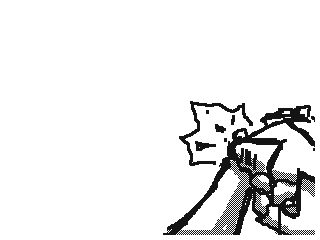
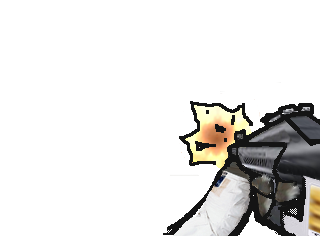
Fix stale gfx atlas rebuilds, swap in colored gun sprites, retune viewmodel offsets
- Makefile: the gfx/*.t3s -> .t3x rule only depended on the .t3s spec
  file itself, not the individual PNGs it lists, so swapping sprite art
  without touching the .t3s left the stale atlas in place no matter how
  many times you rebuilt. tex3ds already emits a real dependency file
  (-d flag); now it's actually -include'd so make picks up PNG changes
  correctly going forward.
- Swapped in colored versions of the gun sprites (idle/idle2/fire1/fire2/
  reset/empty) -- same dimensions as before, so no position code changes
  needed.
- Bumped GUN_LOWER_AMOUNT 40->90px (empty/reloading pose sits noticeably
  lower) and added a 10px downward offset to the viewmodel's base
  position, on top of the existing rightward offset.

Changed region(s): [[0.5312, 0.4083, 1.0, 0.9917]]

diff --git a/source/main.c b/source/main.c
@@ -76,7 +76,7 @@
 // out of ammo/reloading vs. its normal raised position, and how quickly it
 // eases between the two -- higher LOWER_SPEED snaps faster, lower is a
 // slower settle.
-#define GUN_LOWER_AMOUNT 40.0f
+#define GUN_LOWER_AMOUNT 90.0f
 #define GUN_LOWER_SPEED  8.0f
 
 // Classic DOOM-style weapon sway while moving: a horizontal side-to-side
@@ -1537,8 +1537,9 @@ int main(int argc, char **argv) {
 			// on-screen and showing as a hard edge.
 			const float gunScale = 1.0f;
 			const float gunOffsetX = 10.0f;
+			const float gunOffsetY = 10.0f;
 			float gunDrawX = SCREEN_W - gunImg.subtex->width * gunScale + gunOffsetX + gunSwayX;
-			float gunDrawY = SCREEN_H - gunImg.subtex->height * gunScale + gunLowerOffset + gunSwayY;
+			float gunDrawY = SCREEN_H - gunImg.subtex->height * gunScale + gunOffsetY + gunLowerOffset + gunSwayY;
 
 			// eyeSign: left eye (physical GFX_LEFT target) gets +1, right eye
 			// gets -1. Near objects (closer than STEREO_CONVERGE_DIST) then
